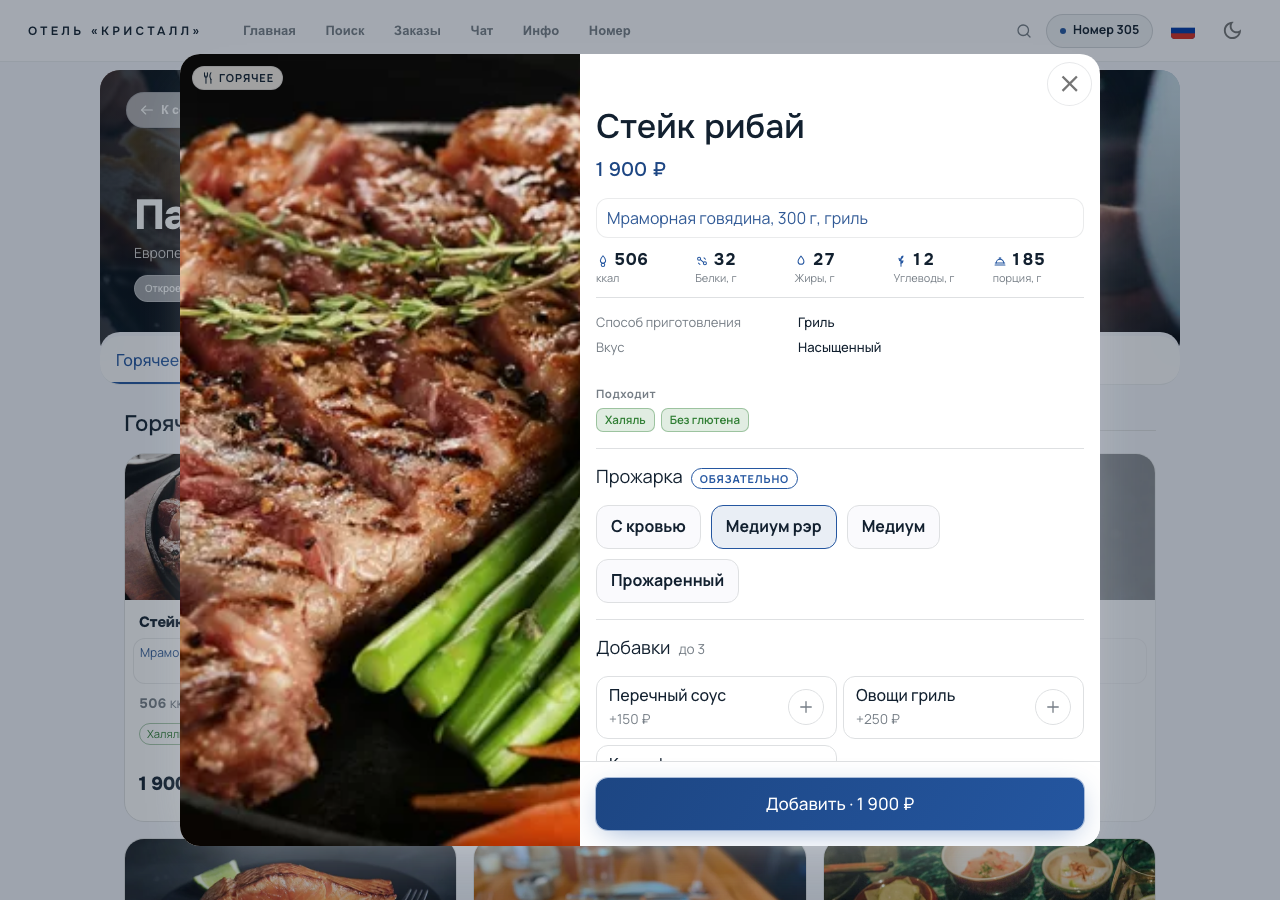
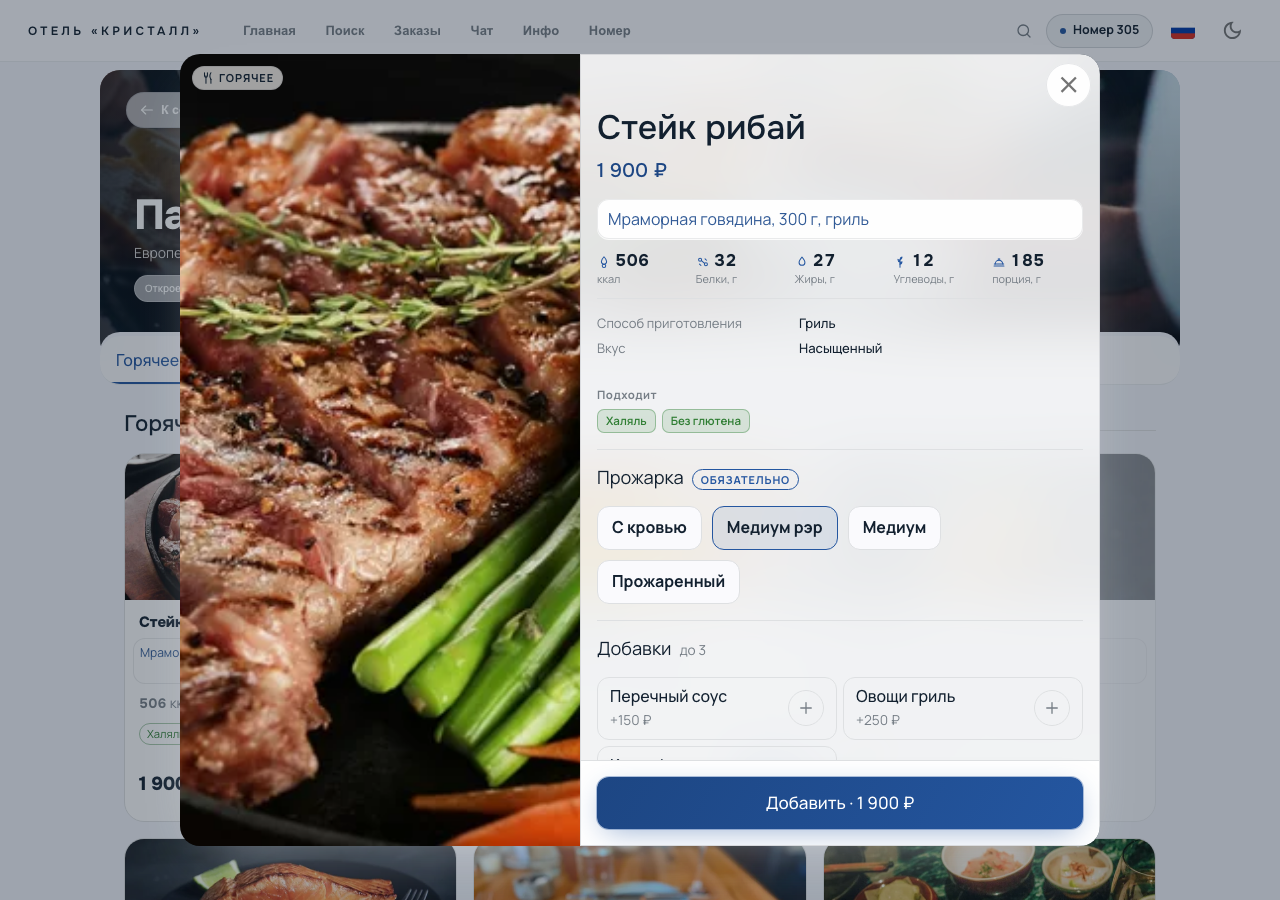
fix(guest): стеклянная не только вставка, а ВСЯ колонка шторки
Панель оставалась серой, и правильно: стеклом я сделал вставку с описанием, а
сама колонка — это бумага диалога, а она непрозрачна. Полупрозрачный слой
поверх глухой поверхности показывает глухую поверхность.

Теперь бумага диалога прозрачна, а колонка взяла `glass.sheet` — ТОТ ЖЕ рецепт,
которым сделаны строка категорий и нижнее меню. Сквозь неё видно размытую
витрину под шторкой: ровно тот приём, которым живёт вся навигация продукта.
Телефонная шторка — тем же слоем: это та же панель, только снизу.

Новых рецептов по-прежнему нет: `glass.sheet` уже был в словаре.

ЗАМЕР ПО ПИКСЕЛЯМ ПОСЛЕ ПРАВКИ, три блюда × две темы:
  тёмная  стейк 5.33   цезарь 5.50   лимонад 5.50
  светлая стейк 6.86   цезарь 6.86   лимонад 6.86
Все шесть выше AA; вставка с описанием держит свою адаптивную вуаль поверх
стекла — как на присланном образце, где она темнее панели.

Сторож подписи зелёный в обеих темах. tsc, lint:colors, build зелёные.
Кадры пересняты: docs/design/sheet-glass, телефон и десктоп, обе темы, три блюда.

diff --git a/frontend/src/guest/components/ItemSheet.tsx b/frontend/src/guest/components/ItemSheet.tsx
@@ -25,7 +25,7 @@ import { errorMessage } from '../errors';
 import { useGuestItem } from '../hooks/useGuestQueries';
 import { DESKTOP_QUERY } from '../layout/constants';
 import type { ItemDetail, MenuItem } from '../api/types';
-import { itemCard, surfaceRadius } from '../storefrontTokens';
+import { itemCard, storefrontTokens, surfaceRadius } from '../storefrontTokens';
 
 export interface ItemSheetProps {
   itemId: string | null;
@@ -171,6 +171,13 @@ export function ItemSheet({ itemId, listItem, onClose }: ItemSheetProps) {
             borderRadius: surfaceRadius.panel(t.palette.brand.radius),
             boxShadow: t.palette.brand.elevation.lg,
             overflow: 'hidden',
+            /*
+              БУМАГА ДИАЛОГА ПРОЗРАЧНА — иначе никакое стекло внутри не поможет:
+              глухая поверхность закрывает витрину раньше, чем до неё дойдёт
+              полупрозрачный слой. Плотность держит сама колонка, ниже.
+            */
+            backgroundColor: 'transparent',
+            backgroundImage: 'none',
           }),
         }}
       >
@@ -202,7 +209,22 @@ export function ItemSheet({ itemId, listItem, onClose }: ItemSheetProps) {
             ) : null}
             {/* The content cell scrolls on its own; the CTA sits at the end of it
                 (spec .foot), the catalog behind stays dimmed. */}
-            <Box sx={{ position: 'relative', minWidth: 0, minHeight: 0, maxHeight: '88vh', overflowY: 'auto' }}>
+            {/*
+              ПРАВАЯ КОЛОНКА — СТЕКЛО, а не поверхность: тот же рецепт
+              `glass.sheet`, которым сделаны строка категорий и нижнее меню.
+              Сквозь неё видно размытую витрину под шторкой — ровно то, чем
+              живёт вся навигация продукта.
+            */}
+            <Box
+              sx={(t) => ({
+                position: 'relative',
+                minWidth: 0,
+                minHeight: 0,
+                maxHeight: '88vh',
+                overflowY: 'auto',
+                ...storefrontTokens(t.palette.mode).glass.sheet,
+              })}
+            >
               {closeButton}
               {body}
             </Box>
@@ -225,6 +247,11 @@ export function ItemSheet({ itemId, listItem, onClose }: ItemSheetProps) {
           borderTopLeftRadius: t.palette.brand.radius.lg,
           borderTopRightRadius: t.palette.brand.radius.lg,
           maxHeight: '92dvh',
+          // Та же прозрачность, что у десктопной колонки: шторка на телефоне —
+          // это та же панель, только снизу.
+          backgroundColor: 'transparent',
+          backgroundImage: 'none',
+          ...storefrontTokens(t.palette.mode).glass.sheet,
         }),
       }}
     >
